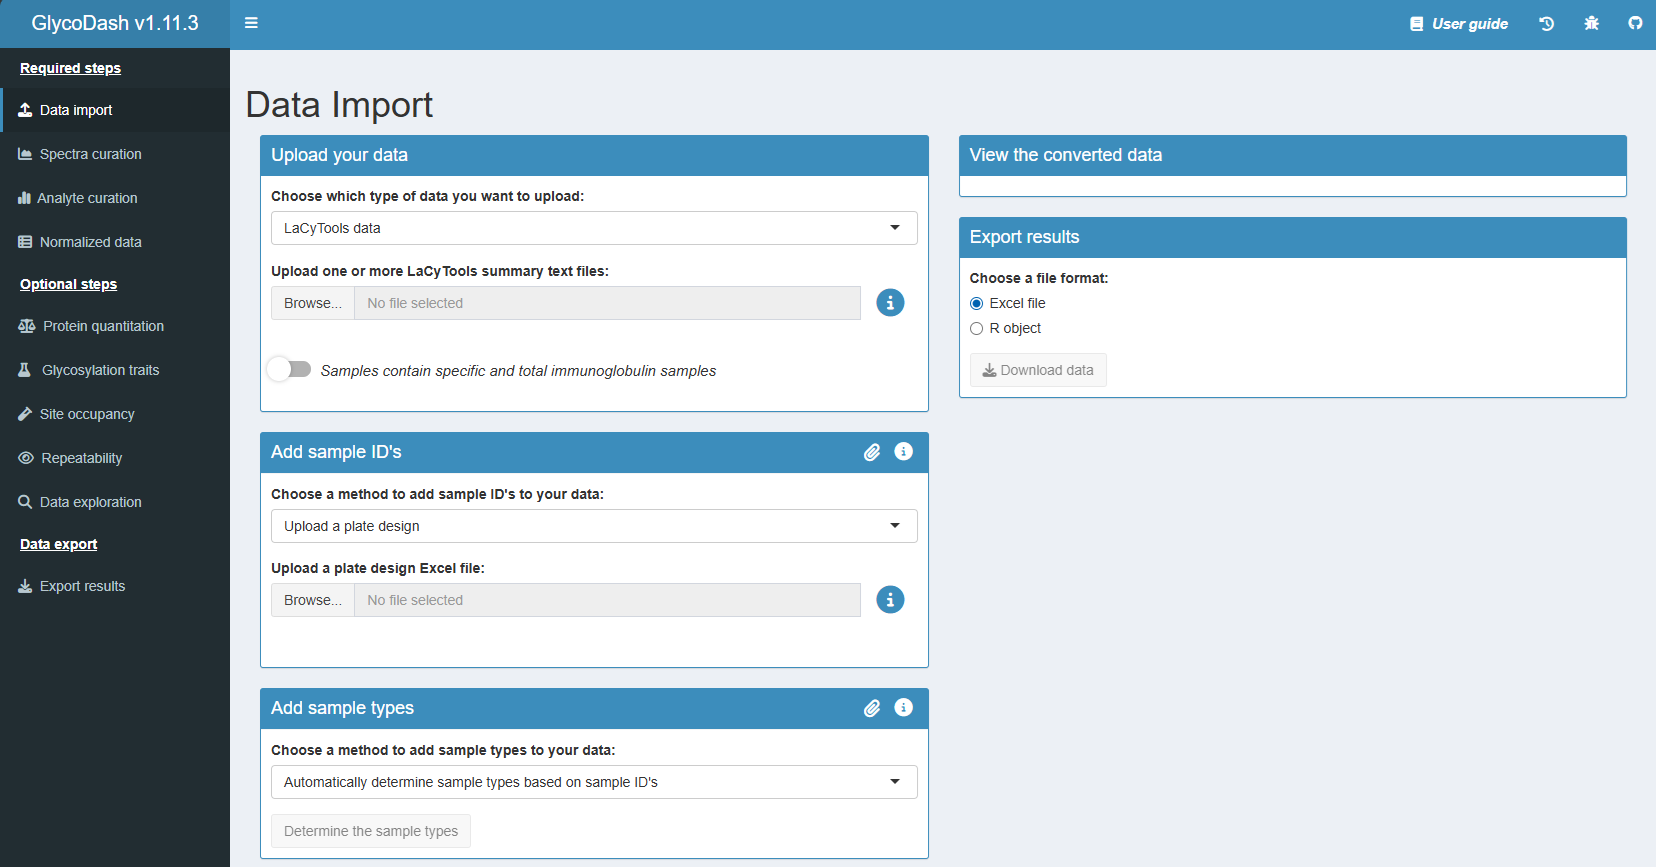
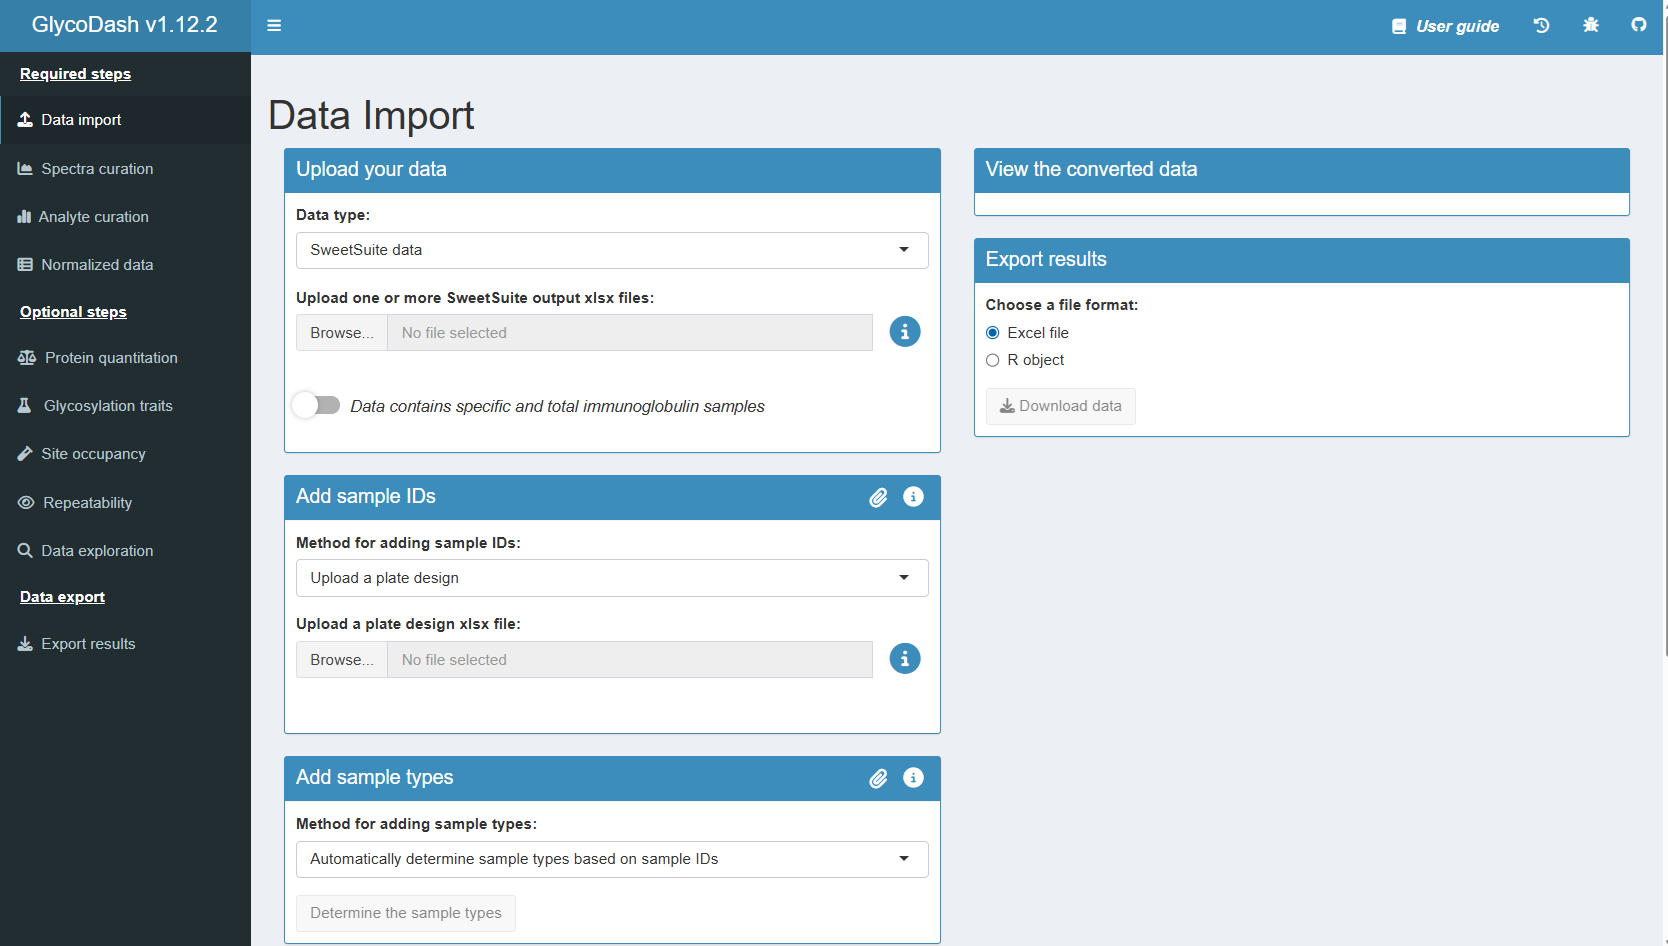
Match change in UI

diff --git a/docs/user_guide/3_Spectra_curation.tex b/docs/user_guide/3_Spectra_curation.tex
@@ -78,7 +78,7 @@ The cut-off values are indicated by dashed bars, and the exact cut-off values ar
 When satisfied with the cut-off values, click on \menu{Perform spectra curation}
 
 \begin{optionalbox}
-	It is possible to set manual cut-offs for a glycosylation site by toggling the \menu{\textsf{Choose cut-off values manually instead}} option in the corresponding tab.
+	It is possible to set manual cut-offs for a glycosylation site by toggling the \menu{\textsf{Set cut-offs manually}} option in the corresponding tab.
 \end{optionalbox}
 
 \begin{center}
